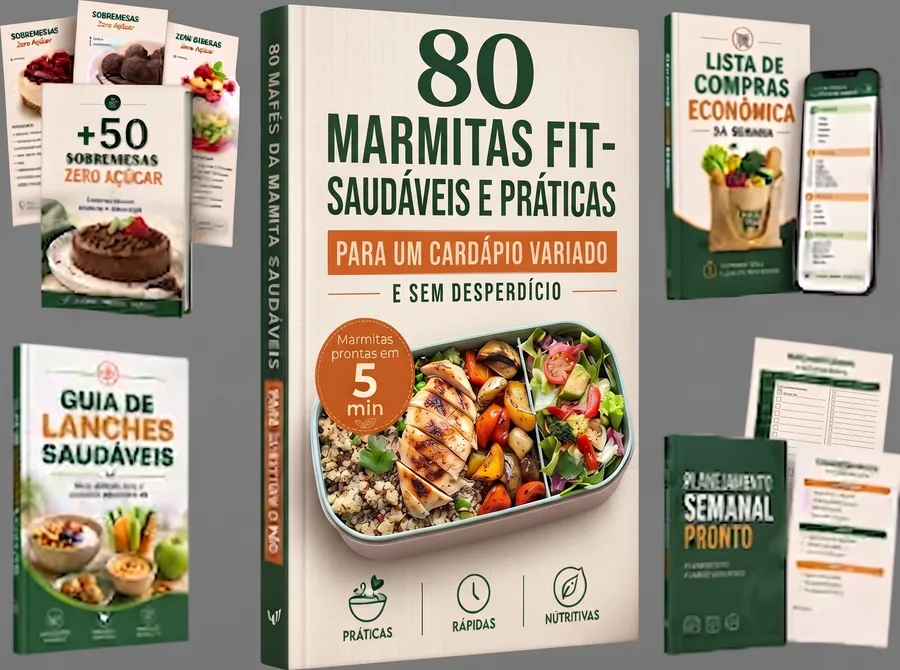
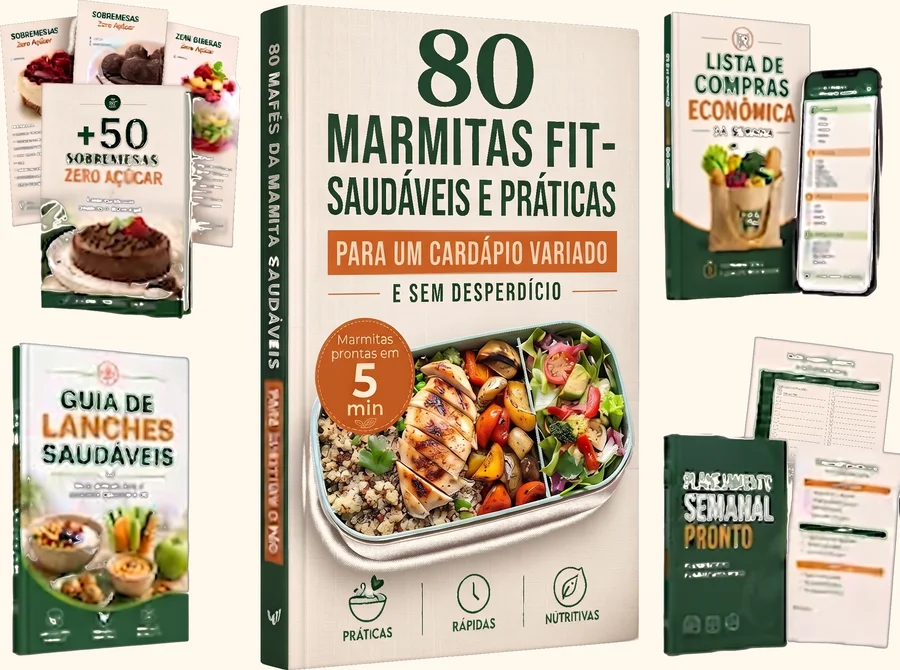
Remove fundo cinza da imagem do Plano Completo
Aplica remoção de cor por proximidade (chroma key) no fundo de
estúdio cinza, substituindo por transparência sobre o creme do site.
Ajusta os cards de plano para object-fit:contain, encaixando as
imagens sem cortar elementos importantes.

diff --git a/index.html b/index.html
@@ -356,7 +356,8 @@
     background:var(--terracota);color:#fff;font-size:11px;font-weight:800;
     padding:6px 16px;border-radius:20px;letter-spacing:.5px;white-space:nowrap;
   }
-  .plan-card img{width:100%;height:190px;object-fit:cover;margin:0 auto 16px;border-radius:10px;box-shadow:0 8px 20px rgba(0,0,0,.15);}
+  .plan-card img{width:100%;height:190px;object-fit:contain;background:var(--cream);margin:0 auto 16px;border-radius:10px;}
+  .plan-card:not(.popular) img{box-shadow:0 8px 20px rgba(0,0,0,.12);}
   .plan-card h3{font-size:18px;text-align:center;color:var(--green-dark);}
   .plan-card .plan-type{text-align:center;color:var(--muted);font-size:12px;margin-bottom:14px;}
   .plan-price{text-align:center;margin-bottom:18px;}
